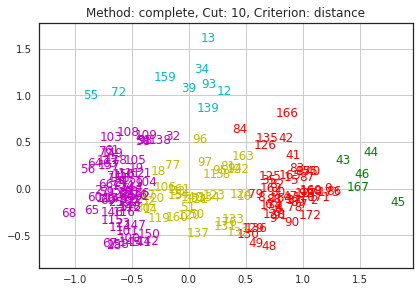
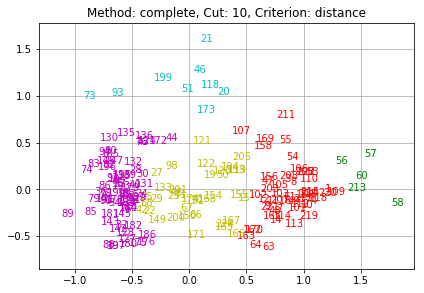
General revision
Revision of task_01 (rev 5)
Revision of task_02 (rev 4)

Changed region(s): [[0.031, 0.0308, 0.9905, 0.9863]]

diff --git a/task_02/task_02.py b/task_02/task_02.py
@@ -1,7 +1,5 @@
 # -*- coding: utf-8 -*-
 
-import csv
-
 import matplotlib.pyplot as plt
 import numpy as np
 import pandas as pd
@@ -9,46 +7,64 @@ from sklearn.decomposition import PCA
 from sklearn import preprocessing 
 import sklearn.neighbors
 from scipy import cluster
+from numpy import arange
+from pylab import pcolor, show, colorbar, xticks, yticks
+import seaborn as sns
 
 
-def exclude_features(data, excludes_list):
-    index_range = range(0, len(excludes_list))
-    excludes_list.sort()    
-    data_aux = data
+def load_data(file, filter_parameters = None, excludes_features = None,
+              outliers = None):
     
-    for i in index_range:
-        data_aux.pop(excludes_list[i]-i)
-        
-    return data_aux
-
-def load_data(file, city, range_years, features_not_included):
-    f = open(file, 'rt')
-    data = []
-    heads = []
+    df = pd.read_csv(file)
     
-    try:
-        reader = csv.reader(f)
-        
-        for row in reader:
-            newcity = row[0]
-            if newcity == 'city':
-                heads.append(exclude_features(row, features_not_included))
-                
-            elif newcity == city:
-                if ( int(row[1]) in range_years ):
-                    example = exclude_features(row, features_not_included)
-                    data.append(example)
-
-
-    finally:
-        f.close()
-        
-        df = pd.DataFrame.from_records(data, columns = heads)
-        df = df.replace('', np.nan, regex=True)
-        
-        
+    df.replace('', np.nan, inplace=True, regex=True)
+  
+    if filter_parameters != None:
+        for key, value in filter_parameters.iteritems():
+            df_aux = df.loc[df[key].isin(value)]
+            df=df_aux
+    
+    if excludes_features != None:
+        if type(excludes_features)==list and type(excludes_features[0])== str:
+            df.drop(labels = excludes_features, axis = 1, inplace = True)
+        elif type(excludes_features)==list and type(excludes_features[0])== int:
+            df.drop(df.columns[excludes_features], axis = 1, inplace = True)
+            
+    if outliers != None:
+        df.drop(df.index[outliers], inplace = True)
+    
     return df
 
+def correlation_plots(data, R):
+    features_length = len(data.columns)
+    
+    
+    plt.pcolormesh(R)
+    pcolor(R)
+    colorbar()
+    yticks(arange(0,features_length),range(0,features_length))
+    xticks(arange(0,features_length),range(0,features_length))
+    plt.title('Pearson correlation')
+    show()
+
+    # http://stanford.edu/~mwaskom/software/seaborn/examples/many_pairwise_correlations.html
+    # Generate a mask for the upper triangle
+    sns.set(style = 'white')
+    mask = np.zeros_like(R, dtype=np.bool)
+    mask[np.triu_indices_from(mask)] = True
+    
+    # Set up the matplotlib figure
+    f, ax = plt.subplots(figsize=(11, 9))
+
+    # Generate a custom diverging colormap
+    cmap = sns.diverging_palette(200, 10, as_cmap=True)
+
+    # Draw the heatmap with the mask and correct aspect ratio
+    sns.heatmap(R, mask=mask, cmap=cmap, vmax=.8, 
+                square=True, xticklabels=1, yticklabels=1,
+                linewidths=.2, cbar_kws={"shrink": .2}, ax=ax)
+    
+    ax.set_title('Pearson correlation')
 
 def normalization_with_minmax(data):
     
@@ -62,17 +78,33 @@ def pca(data):
     
     return estimator, X_pca_
 
+def pca_plots(estimator, X_pca, index):
+
+    fig, ax = plt.subplots(1, 1, figsize = (7, 14))
+
+    
+    for i in range(len(index)):
+        plt.text(X_pca[i][0], X_pca[i][1],
+                 index[i]) 
+
+    plt.title('PCA.\nEstimation ratio: {}'
+              .format(estimator.explained_variance_ratio_))
+    plt.xlim(min(X_pca[:,0]-0.2), max(X_pca[:,0])+0.2)
+    plt.ylim(min(X_pca[:,1]-0.2), max(X_pca[:,1])+0.2)
+    plt.grid(True)
+    fig.tight_layout()
+
+    plt.show()
 
 def main():
     # 0. Load data
     years = range(2004, 2011)
+    _filter = {'city':['sj'], 'year': years}
     excludes = range(0, 4)
-    data = load_data(
-            "../data/dengue_features_train.csv",
-            'sj',
-            years,
-            excludes)
     
+    data = load_data("../data/dengue_features_train.csv",
+                     filter_parameters = _filter, excludes_features = excludes)
+        
     # 1. Data normalization
     data_normalizated = normalization_with_minmax(data)
 
@@ -149,13 +181,16 @@ def main():
 
     fig, ax = plt.subplots()
     for i in range(len(X_pca)):
-        plt.text(X_pca[i][0], X_pca[i][1], names[i]) 
+        plt.text(X_pca[i][0], X_pca[i][1], i + 1) 
 
     plt.xlim(min(X_pca[:,0]-0.2), max(X_pca[:,0])+0.2)
     plt.ylim(min(X_pca[:,1]-0.2), max(X_pca[:,1])+0.2)
     ax.grid(True)
     fig.tight_layout()
     plt.show()
+    
+    for i in range(len(names)):
+        print "%d - %s" % (i,names[i])
 
     # 2. Compute the similarity matrix
     dist = sklearn.neighbors.DistanceMetric.get_metric('euclidean')

diff --git a/task_02/task_02_mod_para_analisis.py b/task_02/task_02_mod_para_analisis.py
@@ -1,7 +1,10 @@
 # -*- coding: utf-8 -*-
 
+<<<<<<< Updated upstream
 import csv
 
+=======
+>>>>>>> Stashed changes
 import matplotlib.pyplot as plt
 import numpy as np
 import pandas as pd
@@ -14,6 +17,7 @@ from pylab import pcolor, show, colorbar, xticks, yticks
 import seaborn as sns
 
 
+<<<<<<< Updated upstream
 
 def exclude_features(data, excludes_list):
     index_range = range(0, len(excludes_list))
@@ -53,6 +57,32 @@ def load_data(file, city, range_years, features_not_included):
         
     return df
 
+=======
+def load_data(file, filter_parameters = None, excludes_features = None,
+              outliers = None):
+    
+    df = pd.read_csv(file)
+    
+    df.replace('', np.nan, inplace=True, regex=True)
+  
+    if filter_parameters != None:
+        for key, value in filter_parameters.iteritems():
+            df_aux = df.loc[df[key].isin(value)]
+            df=df_aux
+    
+    if excludes_features != None:
+        if type(excludes_features)==list and type(excludes_features[0])== str:
+            df.drop(labels = excludes_features, axis = 1, inplace = True)
+        elif type(excludes_features)==list and type(excludes_features[0])== int:
+            df.drop(df.columns[excludes_features], axis = 1, inplace = True)
+            
+    if outliers != None:
+        df.drop(df.index[outliers], inplace = True)
+    
+    return df
+
+
+>>>>>>> Stashed changes
 def correlation_plots(data, R):
     features_length = len(data.columns)
     
@@ -117,12 +147,20 @@ def pca_plots(estimator, X_pca, index):
 def main():
     # 0. Load data
     years = range(2004, 2011)
+<<<<<<< Updated upstream
     excludes = range(0, 4)
     data = load_data(
             "../data/dengue_features_train.csv",
             'sj',
             years,
             excludes)
+=======
+    _filter = {'city':['sj'], 'year': years}
+    excludes = range(0, 4)
+    
+    data = load_data("../data/dengue_features_train.csv",
+                     filter_parameters = _filter, excludes_features = excludes)
+>>>>>>> Stashed changes
     
     # 1. Data normalization
     data_normalizated = normalization_with_minmax(data)
